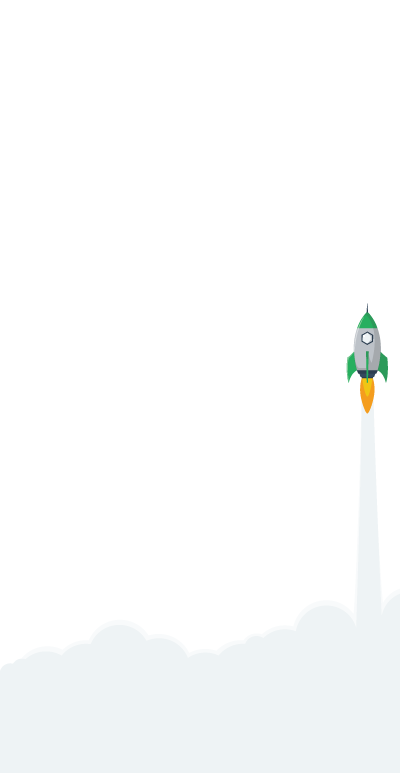
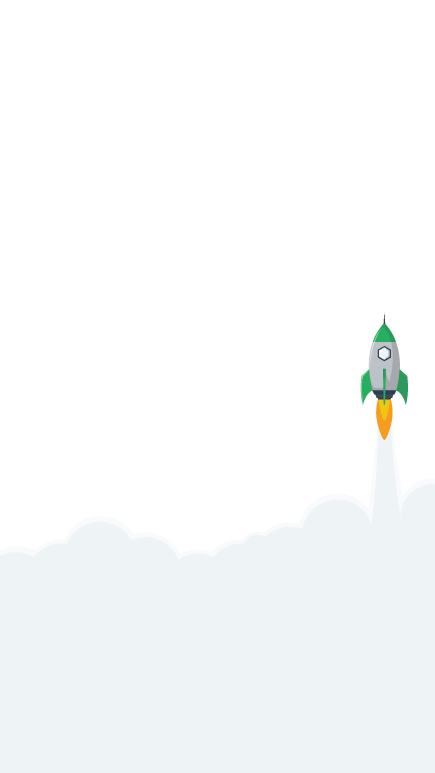
rocket fix mobile

Changed region(s): [[0.81, 0.4036, 0.99, 0.5899]]

diff --git a/_site/assets/css/4-pages/header.sass b/_site/assets/css/4-pages/header.sass
@@ -86,8 +86,8 @@ h1
   font-size: 14px
   text-transform: uppercase
   letter-spacing: 0.05em
-    
-  
+  @media (max-width: 500px)  
+  font-size: 10px
   
 // Learn more button in modules ---------
   
@@ -97,8 +97,8 @@ h1
   height: 30px
   width: 30px
   margin: 80px 0 20px 0
-  
-  
+  @media (max-width: 500px)  
+  margin: 60px 0 20px 0
   
 .rocket
   width: 100%

diff --git a/assets/css/4-pages/header.sass b/assets/css/4-pages/header.sass
@@ -86,8 +86,8 @@ h1
   font-size: 14px
   text-transform: uppercase
   letter-spacing: 0.05em
-    
-  
+  @media (max-width: 500px)  
+  font-size: 10px
   
 // Learn more button in modules ---------
   
@@ -97,8 +97,8 @@ h1
   height: 30px
   width: 30px
   margin: 80px 0 20px 0
-  
-  
+  @media (max-width: 500px)  
+  margin: 60px 0 20px 0
   
 .rocket
   width: 100%

diff --git a/_site/assets/css/main.css b/_site/assets/css/main.css
@@ -544,12 +544,14 @@ h1 {
   font-weight: 700;
   font-size: 14px;
   text-transform: uppercase;
-  letter-spacing: 0.05em; }
+  letter-spacing: 0.05em;
+  font-size: 10px; }
 
 .down-arrow {
   height: 30px;
   width: 30px;
-  margin: 80px 0 20px 0; }
+  margin: 80px 0 20px 0;
+  margin: 60px 0 20px 0; }
 
 .rocket {
   width: 100%;

diff --git a/assets/css/main.css b/assets/css/main.css
@@ -544,12 +544,14 @@ h1 {
   font-weight: 700;
   font-size: 14px;
   text-transform: uppercase;
-  letter-spacing: 0.05em; }
+  letter-spacing: 0.05em;
+  font-size: 10px; }
 
 .down-arrow {
   height: 30px;
   width: 30px;
-  margin: 80px 0 20px 0; }
+  margin: 80px 0 20px 0;
+  margin: 60px 0 20px 0; }
 
 .rocket {
   width: 100%;
